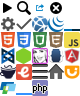
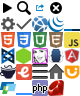
Add RDoc scraper and Ruby documentation

Changed region(s): [[0.6, 0.8125, 0.8, 1.0]]

diff --git a/assets/stylesheets/pages/_rdoc.scss b/assets/stylesheets/pages/_rdoc.scss
@@ -1,0 +1,46 @@
+._rdoc {
+  > .description, > .documentation-section { padding-left: 1rem; }
+  > .description > h2, .section-header { @extend %block-heading; }
+  > .description > h2, .section-header, .method-heading { margin-left: -1rem; }
+  .description > h1 { font-size: 1rem; }
+  .method-description > h2, h3, h4 { font-size: 1em; }
+
+  .method-heading {
+    font-weight: bold;
+    @extend %block-label, %label-blue;
+
+    + .method-heading { margin-top: -.5em; }
+  }
+
+  > .meta {
+    @extend %note, %note-blue;
+
+    > dd { margin: 0; }
+    > dd + dt { margin-top: .5em; }
+  }
+
+  a.method-click-advice {
+    float: right;
+    font-size: .75rem;
+    color: $linkColor;
+    cursor: pointer;
+    @extend %user-select-none;
+
+    &:hover { text-decoration: underline; }
+  }
+
+  .method-description { position: relative; }
+
+  .method-source-code {
+    display: none;
+    position: absolute;
+    z-index: 1;
+    top: 0;
+    left: -1em;
+    right: 0;
+    background: rgba(white, .95);
+    box-shadow: 0 1em 1em 1em white;
+
+    > pre { margin: 0; }
+  }
+}

diff --git a/assets/stylesheets/global/_icons.scss b/assets/stylesheets/global/_icons.scss
@@ -39,3 +39,4 @@
 ._icon-jquerymobile:before  { background-position: 0 -5rem; }
 ._icon-lodash:before        { background-position: -1rem -5rem; }
 ._icon-php:before           { background-position: -2rem -5rem; }
+._icon-ruby:before          { background-position: -3rem -5rem; }

diff --git a/assets/stylesheets/application.css.scss b/assets/stylesheets/application.css.scss
@@ -36,6 +36,7 @@
         'pages/mdn',
         'pages/node',
         'pages/php',
+        'pages/rdoc',
         'pages/rfc',
         'pages/underscore',
         'pages/yard';

diff --git a/lib/docs/scrapers/rdoc/ruby.rb b/lib/docs/scrapers/rdoc/ruby.rb
@@ -1,0 +1,85 @@
+module Docs
+  class Ruby < Rdoc
+    # Generated with:
+    # rdoc \
+    #   --format=darkfish \
+    #   --no-line-numbers \
+    #   --op=rdoc \
+    #   --visibility=public \
+    #   *.c \
+    #   lib/**/*.rb \
+    #   lib/*.rb \
+    #   ext/bigdecimal/*.c \
+    #   ext/bigdecimal/lib/*.rb \
+    #   ext/bigdecimal/lib/**/*.rb \
+    #   ext/date/*.c \
+    #   ext/date/lib/*.rb \
+    #   ext/date/lib/**/*.rb \
+    #   ext/digest/*.c \
+    #   ext/digest/**/*.c \
+    #   ext/digest/**/*.rb \
+    #   ext/json/lib/**/*.rb \
+    #   ext/pathname/*.c \
+    #   ext/pathname/lib/*.rb \
+    #   ext/psych/*.c \
+    #   ext/psych/lib/*.rb \
+    #   ext/psych/lib/**/*.rb \
+    #   ext/readline/*.c \
+    #   ext/ripper/*.c \
+    #   ext/ripper/lib/*.rb \
+    #   ext/ripper/lib/**/*.rb \
+    #   ext/socket/*.c \
+    #   ext/socket/lib/*.rb \
+    #   ext/socket/lib/**/*.rb \
+    #   ext/stringio/*.c \
+    #   ext/zlib/*.c
+
+    self.version = '2.0.0'
+    self.dir = '/Users/Thibaut/DevDocs/Docs/RDoc/Ruby'
+
+    html_filters.replace 'rdoc/entries', 'ruby/entries'
+
+    options[:root_title] = 'Ruby Programming Language'
+
+    options[:skip] += %w(
+      fatal.html
+      unknown.html
+      Data.html
+      E2MM.html
+      English.html
+      Exception2MessageMapper.html
+      GServer.html
+      MakeMakefile.html
+      ParallelEach.html
+      Requirement.html
+      YAML/DBM.html)
+
+    options[:skip_patterns] = [
+      /\AComplex/,
+      /\AGem/,
+      /\AHttpServer/,
+      /\AIRB/,
+      /\AMiniTest/i,
+      /\ANQXML/,
+      /\AOpenSSL/,
+      /\APride/,
+      /\ARacc/,
+      /\ARake/,
+      /\ARbConfig/,
+      /\ARDoc/,
+      /\AREXML/,
+      /\ARSS/,
+      /\ATest/,
+      /\AWEBrick/,
+      /\AXML/,
+      /\AXMP/
+    ]
+
+    options[:attribution] = <<-HTML
+      Ruby Core &copy; 1993&ndash;2013 Yukihiro Matsumoto<br>
+      Licensed under the Ruby License.<br>
+      Ruby Standard Library &copy; contributors<br>
+      Licensed under their own licenses.
+    HTML
+  end
+end

diff --git a/lib/docs/filters/ruby/entries.rb b/lib/docs/filters/ruby/entries.rb
@@ -1,0 +1,52 @@
+module Docs
+  class Ruby
+    class EntriesFilter < Docs::Rdoc::EntriesFilter
+      REPLACE_TYPE = {
+        'ACL'               => 'DRb',
+        'Addrinfo'          => 'Socket',
+        'BigMath'           => 'BigDecimal',
+        'CMath'             => 'Math',
+        'ConditionVariable' => 'Mutex',
+        'DEBUGGER__'        => 'Debug',
+        'Errno'             => 'Errors',
+        'FileTest'          => 'File',
+        'Jacobian'          => 'BigDecimal',
+        'LUSolve'           => 'BigDecimal',
+        'Newton'            => 'BigDecimal',
+        'PP'                => 'PrettyPrint',
+        'Profiler__'        => 'Profiler',
+        'Psych'             => 'YAML',
+        'Rinda'             => 'DRb',
+        'SortedSet'         => 'Set',
+        'TCPServer'         => 'Socket',
+        'TempIO'            => 'Tempfile',
+        'ThWait'            => 'Thread',
+        'UNIXServer'        => 'Socket' }
+
+      REPLACE_TYPE_STARTS_WITH = {
+        'Monitor' => 'Monitor',
+        'Mutex'   => 'Mutex',
+        'Shell'   => 'Shell',
+        'Sync'    => 'Sync',
+        'Thread'  => 'Thread' }
+
+      REPLACE_TYPE_ENDS_WITH = {
+        'Queue'  => 'Queue',
+        'Socket' => 'Socket' }
+
+      def get_type
+        type = super
+
+        REPLACE_TYPE_STARTS_WITH.each_pair do |key, value|
+          return value if type.start_with?(key)
+        end
+
+        REPLACE_TYPE_ENDS_WITH.each_pair do |key, value|
+          return value if type.end_with?(key)
+        end
+
+        REPLACE_TYPE[type] || type
+      end
+    end
+  end
+end

diff --git a/lib/docs/filters/rdoc/clean_html.rb b/lib/docs/filters/rdoc/clean_html.rb
@@ -1,0 +1,49 @@
+module Docs
+  class Rdoc
+    class CleanHtmlFilter < Filter
+      def call
+        root_page? ? root : other
+        doc
+      end
+
+      def root
+        at_css('.section-header').remove
+
+        # Remove skipped items
+        css('li > span').each do |node|
+          node.parent.remove
+        end
+      end
+
+      def other
+        css('hr').remove
+
+        # Remove paragraph/up links
+        css('h1 > span', 'h2 > span', 'h3 > span', 'h4 > span').remove
+
+        # Move id attributes to headings
+        css('.method-detail').each do |node|
+          next unless heading = node.at_css('.method-heading')
+          heading['id'] = node['id']
+          node.remove_attribute 'id'
+        end
+
+        # Convert "click to toggle source" into a link
+        css('.method-click-advice').each do |node|
+          node.name = 'a'
+          node.content = 'Show source'
+        end
+
+        # Add class to differentiate Ruby code from C code
+        css('.method-source-code > pre').each do |node|
+          node['class'] = node.at_css('.ruby-keyword') ? 'ruby' : 'c'
+        end
+
+        # Remove code highlighting
+        css('pre').each do |node|
+          node.content = node.content
+        end
+      end
+    end
+  end
+end

diff --git a/lib/docs/filters/rdoc/entries.rb b/lib/docs/filters/rdoc/entries.rb
@@ -1,0 +1,38 @@
+module Docs
+  class Rdoc
+    class EntriesFilter < Docs::EntriesFilter
+      def get_name
+        name = at_css('h1').content.strip
+        name.sub! 'class ', ''
+        name.sub! 'module ', ''
+        name
+      end
+
+      def get_type
+        type = name.dup
+
+        unless type.sub! %r{::.*\z}, ''
+          parent = at_css('.meta-parent').try(:content).to_s.strip
+          return 'Errors' if type.end_with?('Error') || parent.end_with?('Error') || parent.end_with?('Exception')
+        end
+
+        type
+      end
+
+      def additional_entries
+        return [] if root_page?
+        require 'cgi'
+
+        css('.method-detail').map do |node|
+          name = node['id'].dup
+          name.sub! %r{\A\w+?\-.}, ''
+          name.sub! %r{\A-(?!\d)}, ''
+          name.gsub! '-', '%'
+          name = CGI.unescape(name)
+          name.prepend self.name + (node['id'] =~ /\A\w+-c-/ ? '::' : '#')
+          [name, node['id']]
+        end
+      end
+    end
+  end
+end

diff --git a/lib/docs/filters/rdoc/container.rb b/lib/docs/filters/rdoc/container.rb
@@ -1,0 +1,26 @@
+module Docs
+  class Rdoc
+    class ContainerFilter < Filter
+      def call
+        if root_page?
+          at_css '#classindex-section'
+        else
+          container = at_css '#documentation'
+
+          # Add <dl> mentioning parent class and included modules
+          meta = Nokogiri::XML::Node.new 'dl', doc
+          meta['class'] = 'meta'
+          if parent = at_css('#parent-class-section')
+            meta << %(<dt>Parent:</dt><dd class="meta-parent">#{parent.at_css('.link').inner_html}</dd>)
+          end
+          if includes = at_css('#includes-section')
+            meta << %(<dt>Included modules:</dt><dd class="meta-includes">#{includes.css('a').map(&:to_html).join(', ')}</dd>)
+          end
+          container.at_css('h1').after(meta)
+
+          container
+        end
+      end
+    end
+  end
+end

diff --git a/lib/docs/scrapers/rdoc/rdoc.rb b/lib/docs/scrapers/rdoc/rdoc.rb
@@ -1,0 +1,13 @@
+module Docs
+  class Rdoc < FileScraper
+    self.abstract = true
+    self.type = 'rdoc'
+    self.root_path = 'index.html'
+
+    html_filters.replace 'container', 'rdoc/container'
+    html_filters.push 'rdoc/entries', 'rdoc/clean_html', 'title'
+
+    options[:title] = false
+    options[:skip] = %w(table_of_contents.html)
+  end
+end
